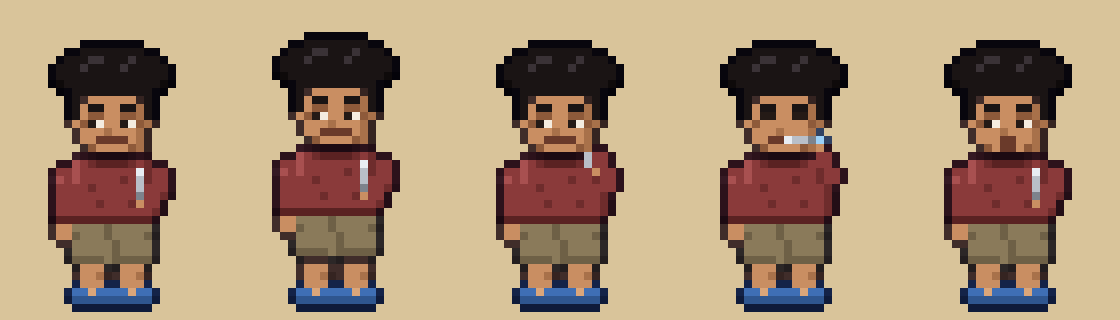
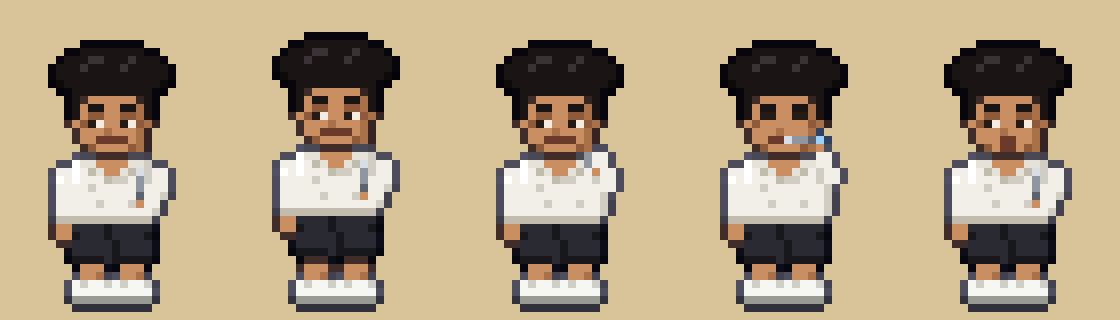
Jao v3: white collared sweater, black shorts, white shoes [skip ci]
Claude-Session: https://claude.ai/code/session_01DcRsQ77FYXtVXyNejf31QG

diff --git a/tools/jao.py b/tools/jao.py
@@ -11,8 +11,8 @@ OUT = os.path.join(os.path.dirname(os.path.abspath(__file__)), '..', 'assets', '
 os.makedirs(OUT, exist_ok=True)
 Q = dict(skin=C('#c98e62'), skinS=C('#a8714a'), skinL=C('#dba67a'), wr=C('#8e5a3a'),
          hair=C('#1a1414'), hairL=C('#3a3236'), hairS=C('#0e0a0a'),
-         sw=C('#8a3a3a'), swS=C('#6e2c2c'), swL=C('#a85050'), swR=C('#5a2222'), shorts=C('#8a7a5a'), shortsS=C('#6e6046'),
-         slip=C('#3f6fb5'), slipS=C('#2f568f'), vape=C('#b9bfc8'), vapeL=C('#e8edf3'), vapeD=C('#7d838c'),
+         sw=C('#f2efe8'), swS=C('#d2cdc2'), swL=C('#ffffff'), swR=C('#c2bcae'), col=C('#e6e2d8'), shorts=C('#2a2a32'), shortsS=C('#17171c'),
+         shoe=C('#f6f6f2'), shoeS=C('#cfcfc8'), sole=C('#9a9a94'), vape=C('#8f96a0'), vapeL=C('#d8dee6'), vapeD=C('#5d636c'),
          glow=C('#9cd1f8'), eye=C('#241a16'), mouth=C('#6a3a2a'))
 
 def jao(pose):
@@ -22,7 +22,7 @@ def jao(pose):
     # legs + tsinelas
     for lx in (4, 9):
         R(lx, 24, 3, 3, Q['skin']); X(lx + 2, 25, Q['skinS'])
-        R(lx - 1, 27, 5, 2, Q['slip']); R(lx - 1, 28, 5, 1, Q['slipS']); X(lx + 1, 27, Q['skinL'])
+        R(lx - 1, 26, 5, 2, Q['shoe']); X(lx + 3, 26, Q['shoeS']); R(lx - 1, 28, 5, 1, Q['sole']); X(lx, 26, Q['shoeS'])
     # shorts
     R(3, 18 + Y, 10, 6, Q['shorts']); R(3, 23 + Y, 4, 1, Q['shortsS']); R(9, 23 + Y, 4, 1, Q['shortsS'])
     for y in range(19, 24): X(7 + (1 if y > 20 else 0), y + Y, Q['shortsS'])          # leg split
@@ -32,7 +32,11 @@ def jao(pose):
         w = 1 if 14 <= y <= 17 else 0
         R(3 - w, y + Y, 10 + 2 * w, 1, Q['sw']); X(12 + w, y + Y, Q['swS']); X(3 - w, y + Y, Q['swL'])
     R(3, 18 + Y, 10, 1, Q['swR'])                                              # ribbed hem
-    R(6, 11 + Y, 4, 1, Q['swR']); X(5, 11 + Y, Q['swS']); X(10, 11 + Y, Q['swS'])     # crew neck
+    R(6, 11 + Y, 4, 1, Q['skin'])                                              # neck opening
+    for (x, y) in ((5, 11), (6, 12), (4, 11)): X(x, y + Y, Q['col'])           # left collar point
+    for (x, y) in ((10, 11), (9, 12), (11, 11)): X(x, y + Y, Q['col'])         # right collar point
+    X(5, 12 + Y, Q['swR']); X(10, 12 + Y, Q['swR'])                            # collar shadow
+    X(7, 12 + Y, Q['skin']); X(8, 12 + Y, Q['skin']); X(7, 13 + Y, Q['swR']); X(8, 13 + Y, Q['swS'])   # small placket
     for (x, y) in ((5, 14), (9, 13), (6, 16), (10, 16)): X(x, y + Y, Q['swS'])  # knit texture
     # left arm hanging (sleeve + cuff + hand)
     R(1, 12 + Y, 2, 6, Q['sw']); X(1, 13 + Y, Q['swL']); R(1, 18 + Y, 2, 1, Q['swR']); R(1, 19 + Y, 2, 2, Q['skin'])

diff --git a/docs/BUGS.md b/docs/BUGS.md
@@ -71,7 +71,7 @@
 - **Animal shop:** buy animals for the Barn Ranch; on buying, a prompt asks you to name the animal.
 
 ### Jao: market NPC (concept, user's idea)
-- **Name: Jao.** An old man with thick black hair, no mustache, in a maroon knit sweater, knee-length khaki shorts and blue tsinelas. He holds a short aluminum vape stick and now and then inhales (eyes shut, tip glows) and puffs out a big cloud. **Smoke always lingers** around him (a wisp from the stick + slow haze around his head).
+- **Name: Jao.** An old man with thick black hair, no mustache, in a white collared sweater, knee-length black shorts and white shoes. He holds a short aluminum vape stick and now and then inhales (eyes shut, tip glows) and puffs out a big cloud. **Smoke always lingers** around him (a wisp from the stick + slow haze around his head).
 - **Not the seller.** The stalls handle buying/selling. Jao just hangs around the market and gives a random "dumb philosophy" quote when you talk to him, and says a line after you close a sell menu.
 - **Quotes are not fish-related.** Internet-style fake-deep lines plus real wisdom that sounds dumb. Original lines only (not copied memes).
 - Draft sprite: `assets/characters/jao/jao_draft.gif`, `jao_frames.png` (`tools/jao.py`): idle, breath, raise, inhale, exhale.
